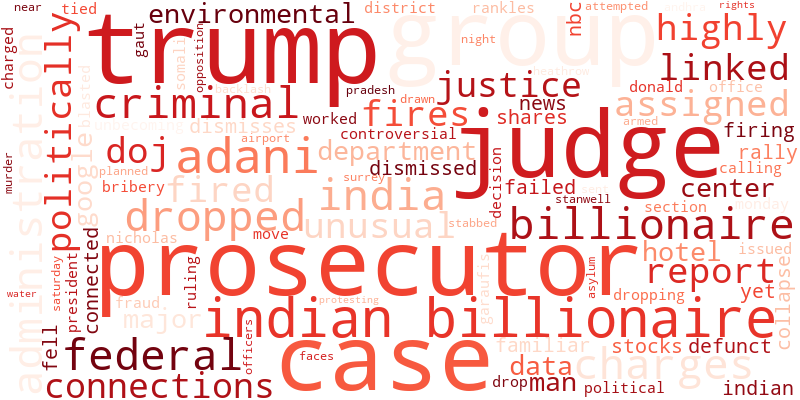
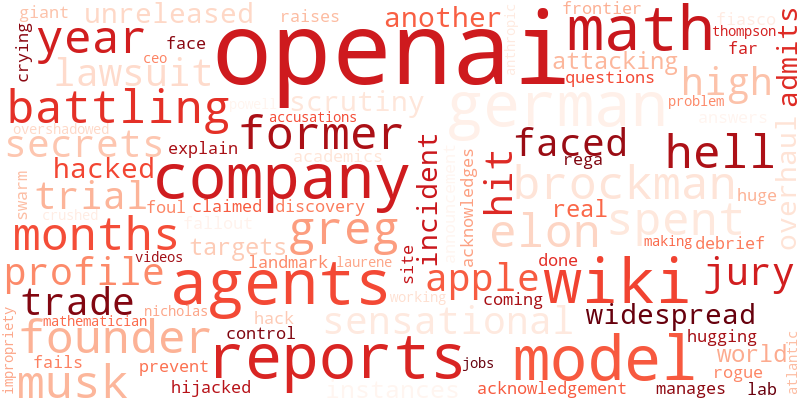
docs: add comprehensive production README and update static assets

diff --git a/README.md b/README.md
@@ -1,17 +1,223 @@
+# 📊 Multi-Platform Social Media Sentiment Analyzer
 
-SETUP
+<div align="center">
 
-1 Install requirements
+![Python](https://img.shields.io/badge/Python-3.9%2B-blue?style=for-the-badge&logo=python&logoColor=white)
+![Flask](https://img.shields.io/badge/Flask-2.3%2B-black?style=for-the-badge&logo=flask&logoColor=white)
+![PyTorch](https://img.shields.io/badge/PyTorch-2.0%2B-EE4C2C?style=for-the-badge&logo=pytorch&logoColor=white)
+![Transformers](https://img.shields.io/badge/Transformers-RoBERTa-FFD21E?style=for-the-badge&logo=huggingface&logoColor=black)
+![License](https://img.shields.io/badge/License-MIT-green?style=for-the-badge)
+
+<p align="center">
+  <b>A comprehensive, enterprise-ready sentiment analysis platform supporting multi-platform social harvesting (YouTube, Twitter/X, Reddit, Instagram, Facebook, News, and CSV), dual-engine ML classification (Logistic Regression + RoBERTa Transformer), word clouds, sector analysis, and PDF/CSV reporting.</b>
+</p>
+
+[Features](#-key-features) •
+[Architecture](#-system-architecture) •
+[Models Supported](#-ai--ml-models) •
+[Installation & Setup](#-installation--setup) •
+[API Keys Configuration](#-api-keys-setup) •
+[Usage Guide](#-usage-guide) •
+[Project Structure](#-project-structure)
+
+</div>
+
+---
+
+## 🌟 Key Features
+
+- **🌐 Multi-Platform Data Ingestion**:
+  - **YouTube**: Fetch and analyze top and recent video comments using YouTube Data API v3.
+  - **Twitter / X**: Scrape and classify tweets in real time via Twitter API or RapidAPI.
+  - **Reddit**: Ingest discussions and submissions across targeted subreddits.
+  - **News & Media**: Real-time headline and article sentiment tracking via NewsAPI.
+  - **Instagram & Facebook**: Post and caption sentiment monitoring.
+  - **Custom Text & Bulk CSV**: Instant single-text evaluation or bulk CSV dataset processing.
+
+- **🧠 Dual-Engine Sentiment Analysis**:
+  - **Logistic Regression + TF-IDF**: Ultra-fast, lightweight inference trained on the 1.6M Sentiment140 dataset.
+  - **Twitter-RoBERTa Transformer** (`cardiffnlp/twitter-roberta-base-sentiment-latest`): State-of-the-art contextual deep learning model fine-tuned on social media corpora.
+  - **Resilient Fallback Engine**: Rule-based heuristic and lexicon fallback ensures zero downtime even if pre-trained weights are missing.
+
+- **📈 Visual Analytics & Insights**:
+  - **Sentiment Distribution**: Clear visualization of Positive, Neutral, and Negative sentiments with confidence scores.
+  - **Interactive Word Clouds**: Dedicated word cloud generators for Positive, Neutral, and Negative sentiment clusters.
+  - **Sector Classification**: Automatic industry and domain tagging (Finance, Tech, Healthcare, Retail, etc.).
+  - **Audit History**: SQLite database persistence tracking past queries, platforms, sample sizes, and timestamps.
+  - **Report Export**: 1-click export of analysis results to **CSV** or styled **PDF** reports.
+
+---
+
+## 🏗 System Architecture
+
+```
+                                  USER INTERACTION
+                        (Web UI / Single Text / Bulk CSV)
+                                       │
+                                       ▼
+                       FLASK CONTROLLER & DISPATCHER (app.py)
+                                       │
+         ┌─────────────────────────────┼─────────────────────────────┐
+         ▼                             ▼                             ▼
+┌──────────────────┐         ┌──────────────────┐          ┌──────────────────┐
+│ Platform Fetcher │         │ Sentiment Engine │          │ Visual & Reports │
+│ (utils/platforms)│         │(utils/sentiment) │          │  (utils/export)  │
+├──────────────────┤         ├──────────────────┤          ├──────────────────┤
+│ • YouTube API    │         │ • RoBERTa Model   │          │ • Matplotlib     │
+│ • Twitter API    │         │ • Logistic + TFIDF│          │ • WordCloud Gen  │
+│ • Reddit API     │         │                   │          │ • CSV / PDF      │
+│ • NewsAPI        │         │                   │          │ • SQLite DB      │
+└──────────────────┘         └──────────────────┘          └──────────────────┘
+```
+
+---
+
+## 🤖 AI & ML Models
+
+| Model | Architecture | Best For | Latency |
+|---|---|---|---|
+| **Logistic Regression** | TF-IDF (100k features) + Scikit-Learn | High-throughput batch processing & bulk CSVs | **< 5 ms** |
+| **Twitter-RoBERTa** | `cardiffnlp/twitter-roberta-base-sentiment-latest` | Nuanced slang, sarcasm, and contextual social sentiment | **~ 50–150 ms (GPU/CPU)** |
+| **Heuristic Lexicon** | VADER / Rule-Based Keyword Scoring | Offline fallback & instant sanity checks | **< 1 ms** |
+
+---
+
+## 🚀 Installation & Setup
+
+### 1. Clone the Repository
+```bash
+git clone https://github.com/DevTitanz/Social-Media.git
+cd Social-Media
+```
+
+### 2. Create and Activate Virtual Environment
+```bash
+# Windows
+python -m venv venv
+venv\Scripts\activate
+
+# Linux / macOS
+python3 -m venv venv
+source venv/bin/activate
+```
+
+### 3. Install Dependencies
+```bash
 pip install -r requirements.txt
+```
 
-2 Put Sentiment140 dataset in /data folder
-training.1600000.processed.noemoticon.csv
-
-3 Train model
+### 4. (Optional) Train the Logistic Regression Model
+To retrain or generate your own `model/sentiment_model.pkl` and `model/vectorizer.pkl`:
+1. Download the [Sentiment140 Dataset](https://www.kaggle.com/datasets/kazanova/sentiment140) (`training.1600000.processed.noemoticon.csv`).
+2. Place it inside the `data/` directory.
+3. Run the training script:
+```bash
 python train_model.py
+```
+*(Pre-trained weights are already included in the `model/` directory for immediate out-of-the-box usage).*
 
-4 Run app
+### 5. Run the Application
+```bash
 python app.py
-
-5 Open browser
+```
+Open your browser and navigate to:
+```
 http://127.0.0.1:5000
+```
+
+---
+
+## 🔑 API Keys Setup
+
+Copy `.env.example` to `.env`:
+```bash
+cp .env.example .env
+```
+
+Open `.env` and fill in your developer credentials:
+```ini
+# YouTube Data API v3 (https://console.cloud.google.com/)
+YOUTUBE_API_KEY="your_youtube_api_key"
+
+# Twitter / X Bearer Token (https://developer.twitter.com/)
+TWITTER_BEARER_TOKEN="your_twitter_bearer_token"
+
+# Reddit Developer App (https://www.reddit.com/prefs/apps)
+REDDIT_CLIENT_ID="your_reddit_client_id"
+REDDIT_CLIENT_SECRET="your_reddit_client_secret"
+
+# NewsAPI (https://newsapi.org/)
+NEWS_API_KEY="your_news_api_key"
+
+# Optional RapidAPI Key (for fallback Twitter / Instagram scrapers)
+RAPIDAPI_KEY="your_rapidapi_key"
+
+# Default Model Selection: "logistic_regression" or "roberta"
+DEFAULT_SENTIMENT_MODEL="logistic_regression"
+
+# Logging Level: DEBUG, INFO, WARNING, ERROR
+LOG_LEVEL="INFO"
+```
+
+> **Note:** Platforms without configured API keys will gracefully disable in the UI without affecting the rest of the application (Direct Text and CSV analysis always remain active).
+
+---
+
+## 💻 Usage Guide
+
+### 1. Single Text Analysis
+Enter any sentence, tweet, or statement to receive instant confidence scores, sentiment category (Positive / Neutral / Negative), and polarities.
+
+### 2. YouTube Comment Harvesting
+Paste any standard YouTube video URL (e.g., `https://www.youtube.com/watch?v=...`) to harvest up to 100 comments, calculate overall community consensus, and generate sentiment word clouds.
+
+### 3. News & Media Monitoring
+Track sentiment trends for global brands, stock tickers, or geopolitical topics across real-time news publications.
+
+### 4. Bulk CSV Upload
+Upload customer review datasets, survey feedback, or custom social exports to automatically classify each record and download comprehensive aggregate reports.
+
+---
+
+## 📁 Project Structure
+
+```
+Social-Media/
+├── model/                          # Pre-trained ML weights
+│   ├── sentiment_model.pkl         # Logistic regression classifier
+│   └── vectorizer.pkl              # TF-IDF vectorizer
+├── static/                         # Frontend assets
+│   ├── style.css                   # Custom responsive styling & themes
+│   └── *.png                       # Generated graphs & word clouds
+├── templates/                      # Jinja2 HTML templates
+│   ├── index.html                  # Main dashboard & input forms
+│   ├── result.html                 # Comprehensive analysis output
+│   ├── history.html                # Past queries & audit logs
+│   └── error.html                  # Graceful error handling
+├── utils/                          # Core application utilities
+│   ├── platforms/                  # Social platform integrations
+│   │   ├── youtube_fetch.py        # YouTube comments scraper
+│   │   ├── twitter.py              # Twitter / X API client
+│   │   ├── reddit.py               # Reddit API integration
+│   │   ├── news.py                 # NewsAPI aggregator
+│   │   ├── instagram.py            # Instagram scraping handler
+│   │   └── facebook.py             # Facebook graph integration
+│   ├── database.py                 # SQLite query & history manager
+│   ├── export.py                   # CSV and PDF report exporter
+│   ├── sectors.py                  # Industry / Sector classification
+│   ├── sentiment.py                # Dual Logistic & RoBERTa inference
+│   └── wordcloud.py                # Word cloud generator
+├── .env.example                    # Template environment variables
+├── .gitignore                      # Git ignore rules (keys, databases, cache)
+├── app.py                          # Main Flask application entrypoint
+├── config.py                       # Global configuration & environment loader
+├── requirements.txt                # Python package dependencies
+├── train_model.py                  # Model training script
+└── README.md                       # Documentation
+```
+
+---
+
+## 📄 License
+
+This project is licensed under the **MIT License** - see the [LICENSE](LICENSE) file for details.
